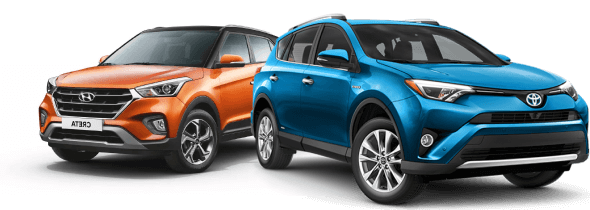
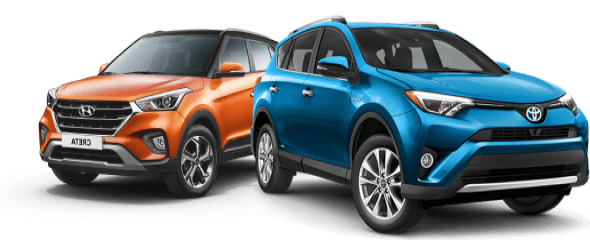
Landing page bugs

diff --git a/src/pages/Home/styles/CarsLogo.css b/src/pages/Home/styles/CarsLogo.css
@@ -30,23 +30,23 @@
 }
 .cardslogo-main{
     
-    width: 75%;
+    width: 85%;
     height: 98%;
     background-color: #FFFFFF;
     border: 1px solid rgba(0, 0, 0, 0.08);
     box-sizing: border-box;
     border-radius: 6px;
-    margin: 0% 12%;
+    margin: auto;
 }
 .cardslogo-main3{
     
-    width: 75%;
+    width: 85%;
     height: 92%;
     background-color: #FFFFFF;
     border: 1px solid rgba(0, 0, 0, 0.08);
     box-sizing: border-box;
     border-radius: 6px;
-    margin: 0% 12%;
+    margin: auto;
 }
 /* firt row */
 .corolla-car{

diff --git a/src/pages/Home/styles/PriceRange.css b/src/pages/Home/styles/PriceRange.css
@@ -11,7 +11,7 @@
 
 
 .rwt__tablist{
-    border-right: none !important;
+    border-left: 1px solid #F3F3F3;
 }
 .PriceRange{
     height:40vh;
@@ -56,6 +56,13 @@
 }
 .rwt__tab[aria-selected="true"]:after{
     border-right: 3px solid #1C67CE !important;
+    
+    
+}
+
+.rwt__tab[aria-selected="true"] {
+    background-color: #FAFAFA !important;
+    color: #1C67CE;
 }
 
 .Items:focus{

diff --git a/src/components/DcSlider/components/DCSlider.jsx b/src/components/DcSlider/components/DCSlider.jsx
@@ -44,6 +44,8 @@ const DCSlider = (props) => {
         // centerMode: true,
         // centerPadding: '50px',
         dots: false,
+        // beforeChange: beforeChange,
+        
         // fade: true,
         responsive: [
           {

diff --git a/src/pages/Home/styles/Home.css b/src/pages/Home/styles/Home.css
@@ -46,6 +46,10 @@
   padding-right: 7px;
 }
 
+.home-container .slick-track {
+  margin-left: unset;
+}
+
 .home-container .slick-slide .product-card .card-subtitle {
   white-space: nowrap;
 }
